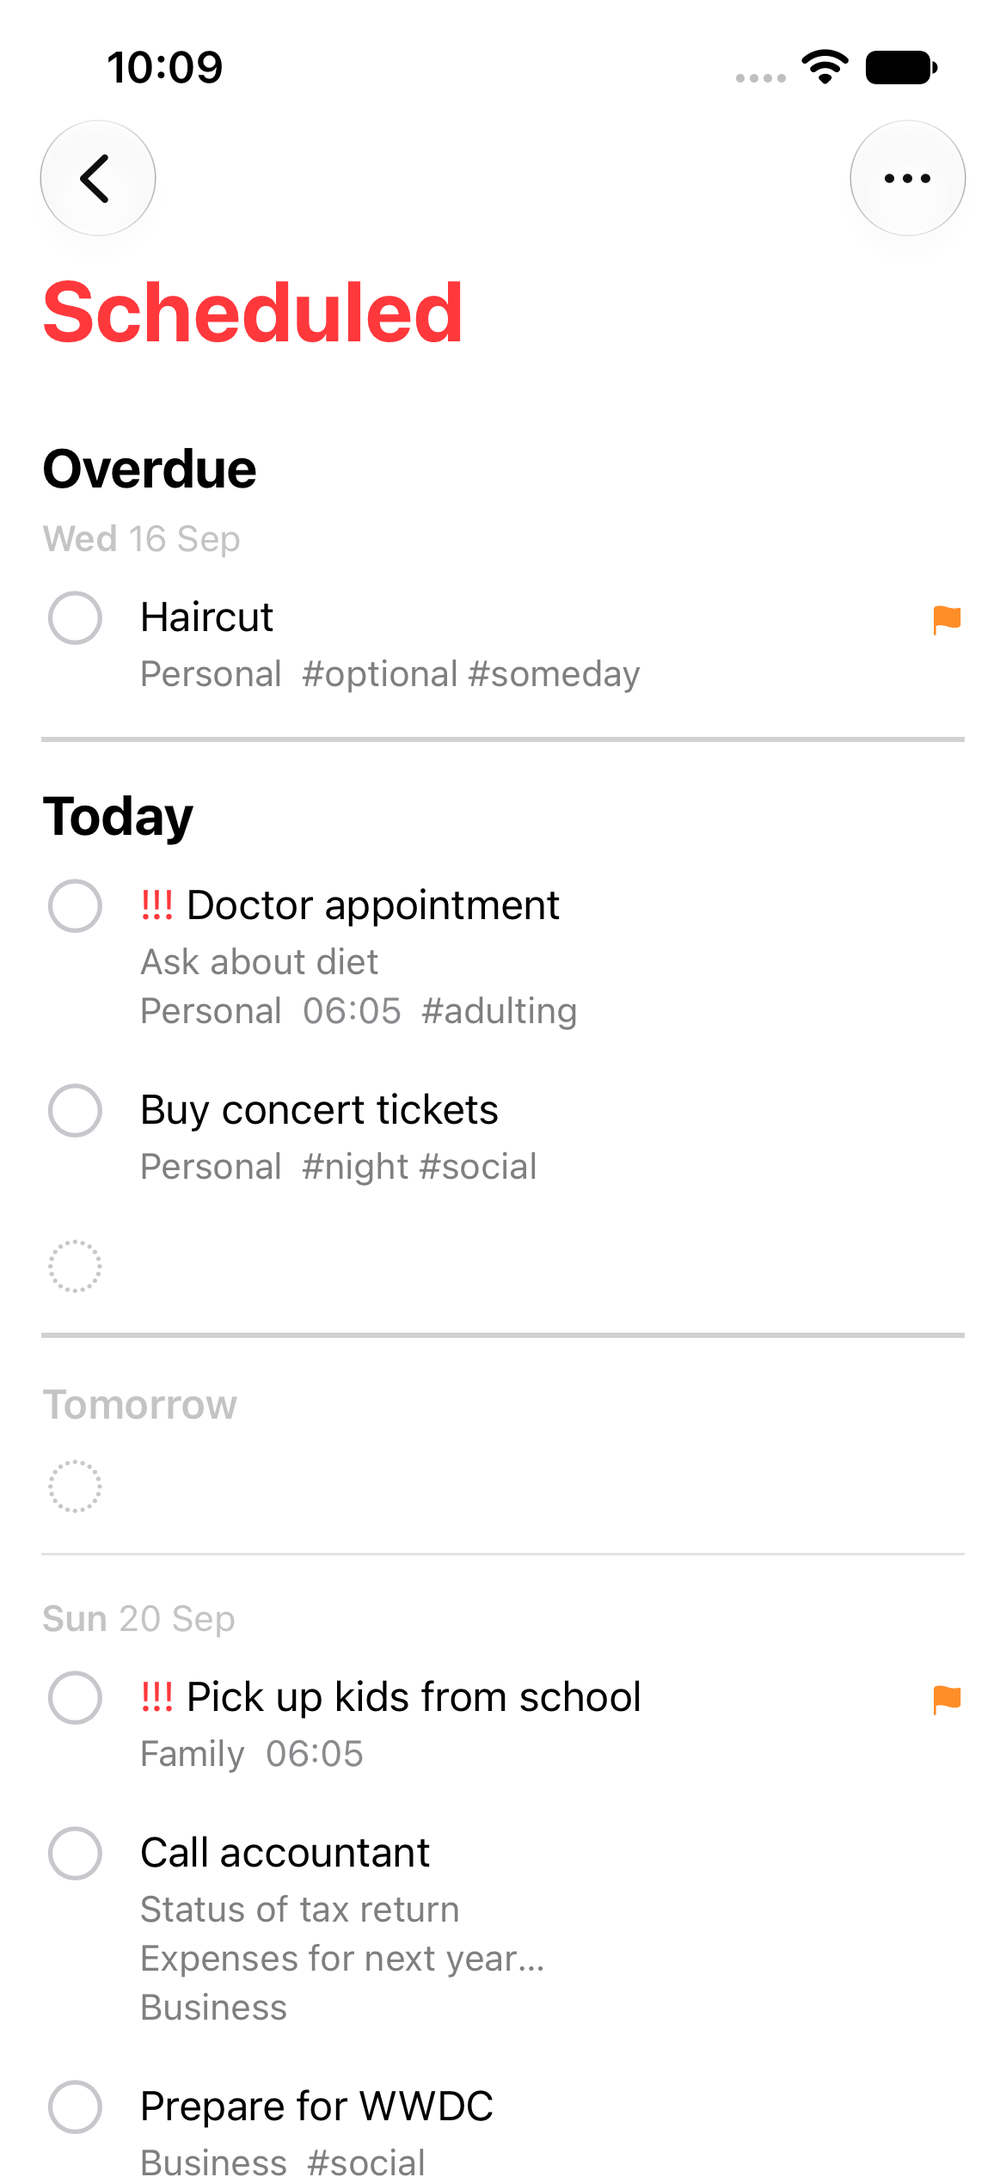
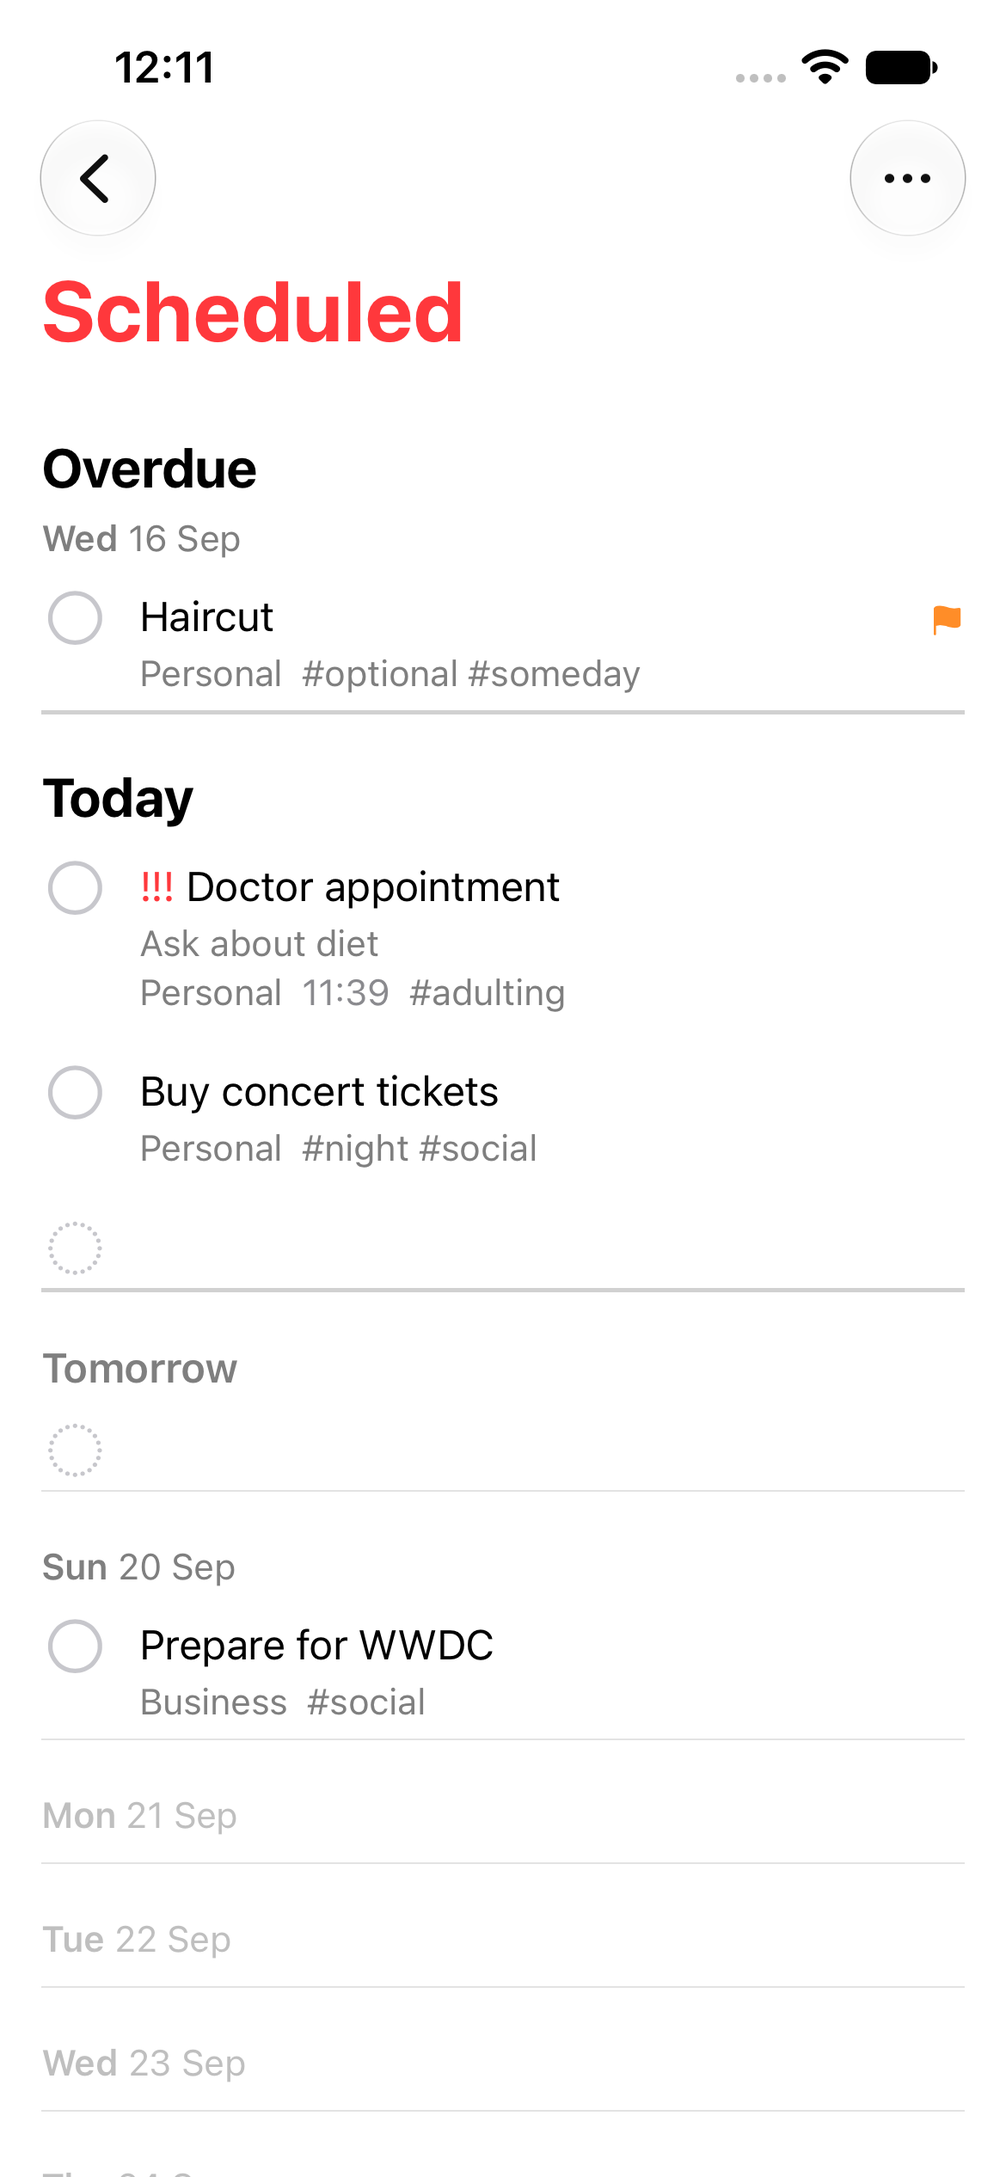
A relaunch never reopens a card; Sort By draws the stock checkmark column; rule, calendar, and tile spacing closed up

diff --git a/Tests/Reminders Feature Tests/Reminders.Feature Tests.swift b/Tests/Reminders Feature Tests/Reminders.Feature Tests.swift
@@ -59,11 +59,6 @@ struct `Reminder feature` {
         return store
     }
 
-    // The restoration state the app keeps in app storage; read here as the next launch would.
-    var restoredEditing: Reminder.ID? {
-        @Shared(.appStorage(Listing.editingKey)) var editing: String?
-        return editing.flatMap(UUID.init(uuidString:)).map { Reminder.ID($0) }
-    }
 
     var restoredFilter: Reminders.Filter? {
         @Shared(.appStorage(Reminders.Feature.filterKey)) var filter: Reminders.Filter.Key?
@@ -197,29 +192,32 @@ struct `Reminder feature` {
         await store.send(.listing(.doneButtonTapped))?.value
         #expect(await store.state.listing?.editing == nil)
         #expect(try await stored(second) == nil)
-        #expect(restoredEditing == nil)
         await store.dismount()
         }
     }
 
-    @Test func `a relaunch reopens the row that was being edited`() async throws {
+    @Test func `a relaunch never reopens a card: a blank draft left by a kill is dropped, a written one is a plain row`() async throws {
         try await TestExhaustivity.$current.withValue(.off) {
         let store = try await makeStore()
         await store.send(.overview(.listTapped(personal)))?.value
         await store.send(.listing(.newReminderButtonTapped))?.value
-        let row = try await editing(store).id
-        #expect(restoredEditing == row)
-        // A relaunch is a new store over the same app storage; the first process is gone without a dismount.
-        let revived = try await makeStore(restoring: .list(personal), editing: Editor.State(try await self.row(row), session: UUID(2)))
-        let editing = try await editing(revived)
-        #expect(editing.id == row && editing.draft.isBlank && editing.isSaved && editing.session == UUID(2))
-        await store.dismount()
-        await revived.modify { $0.listing = nil }?.value
-        #expect(restoredEditing == nil)
-        await revived.send(.overview(.filterTapped(.today)))?.value
-        #expect(await revived.state.listing?.filter == .today)
+        let blank = try await editing(store).id
+        // A relaunch is a new store over the same database; the first process is gone without a dismount.
+        let revived = try await makeStore(restoring: .list(personal))
         #expect(await revived.state.listing?.editing == nil)
+        try await until(try await page(revived)) { !$0.rows.contains { $0.id == blank } }
+        #expect(try await stored(blank) == nil)
+        await revived.send(.listing(.newReminderButtonTapped))?.value
+        await revived.modify { $0.listing?.editing?.draft.title = "Kept" }?.value
+        let kept = try await editing(revived).id
+        await revived.send(.listing(.doneButtonTapped))?.value
+        try await until(try await page(revived)) { $0.rows.contains { $0.id == kept && $0.title == "Kept" } }
+        await store.dismount()
         await revived.dismount()
+        let relaunched = try await makeStore(restoring: .list(personal))
+        #expect(await relaunched.state.listing?.editing == nil)
+        #expect(try await stored(kept)?.title == "Kept")
+        await relaunched.dismount()
         }
     }
 
@@ -489,7 +487,7 @@ struct `Reminder feature` {
         // Popping the listing dismounts it; the draft is written on the way out.
         await store.modify { $0.listing = nil }?.value
         #expect(try await stored(row)?.notes == "Rye")
-        #expect(restoredEditing == nil && restoredFilter == nil)
+        #expect(restoredFilter == nil)
         await store.dismount()
         }
     }
@@ -517,7 +515,6 @@ struct `Reminder feature` {
         let doctorRow = Editor.State(try await row(doctor.id), session: UUID(2))
         #expect(try await editing(store) == doctorRow)
         await store.send(.listing(.reminderTapped(doctor.id)))?.value
-        #expect(restoredEditing == doctor.id)
         await store.dismount()
         }
     }
@@ -778,22 +775,15 @@ struct `Reminder feature` {
         }
     }
 
-    @Test func `a launch restores the open filter and the row being edited from app storage, and forgets a row that is gone`() async throws {
+    @Test func `a launch restores the open filter from app storage and forgets a list that is gone`() async throws {
         try await TestExhaustivity.$current.withValue(.off) {
         @Shared(.appStorage(Reminders.Feature.filterKey)) var filter: Reminders.Filter.Key?
-        @Shared(.appStorage(Listing.editingKey)) var editing: String?
         $filter.withLock { $0 = Reminders.Filter.Key(.list(personal)) }
-        $editing.withLock { $0 = groceries.id.rawValue.uuidString }
-        let groceriesRow = try await row(groceries.id)
-        let store = try await makeStore(restoring: .list(personal), editing: Editor.State(groceriesRow, session: UUID(0)))
-        #expect(try await self.editing(store) == Editor.State(groceriesRow, session: UUID(0)))
+        let store = try await makeStore(restoring: .list(personal))
+        #expect(await store.state.listing?.editing == nil)
+        #expect(await store.state.failure == nil)
+        #expect(restoredFilter == .list(personal))
         await store.dismount()
-        try await database.write { [id = groceries.id] db in try Reminder.Record.find(id).delete().execute(db) }
-        let revived = try await makeStore(restoring: .list(personal))
-        #expect(await revived.state.listing?.editing == nil)
-        #expect(await revived.state.failure == nil)
-        #expect(restoredEditing == nil && restoredFilter == .list(personal))
-        await revived.dismount()
         // A list that is gone takes the launch back to the front screen and forgets the filter.
         $filter.withLock { $0 = Reminders.Filter.Key(.list(Models.List<Reminder>.ID(UUID()))) }
         let fronted = try await makeStore()

diff --git a/Sources/Reminders Feature/Reminders.Listing.Feature.swift b/Sources/Reminders Feature/Reminders.Listing.Feature.swift
@@ -38,8 +38,9 @@ extension Reminders.Listing {
                 return page
             }
             @DebugSnapshotIgnored @Fetch public var preference = Reminders.Preference(ordering: .dueDate, showCompleted: false)
-            // The row being edited survives a relaunch.
-            @DebugSnapshotIgnored @Shared(.appStorage(Feature.editingKey)) public var editingID: String? = nil
+            // The Sort By pickers bind here; the stored preference follows through the feature, and leads it back.
+            public var ordering: Reminders.Ordering = .dueDate
+            public var direction: SortOrder = .forward
 
             public init(filter: Reminders.Filter, today: Date) {
                 self.filter = filter
@@ -133,11 +134,9 @@ extension Reminders.Listing {
                 case .newReminderButtonTapped:
                     if let list = state.list { startNewReminder(in: list, &state) }
                 case let .orderingSelected(ordering):
-                    let filter = state.filter
-                    perform { try await reminders.update.order(filter, by: ordering) }
+                    state.ordering = ordering
                 case let .directionSelected(direction):
-                    let filter = state.filter
-                    perform { try await reminders.update.turn(filter, direction) }
+                    state.direction = direction
                 case let .reminderCompleteButtonTapped(id):
                     completion.tapped(id, &state)
                 case let .reminderDeleted(id):
@@ -203,8 +202,19 @@ extension Reminders.Listing {
             .ifLet(\.editing) {
                 Reminder.Editor.Feature()
             }
-            .onChange(of: store.editing?.id) { _, id, state in
-                state.$editingID.withLock { $0 = id?.rawValue.uuidString }
+            .onChange(of: store.preference, initial: true) { _, preference, state in
+                state.ordering = preference.ordering
+                state.direction = preference.direction
+            }
+            .onChange(of: store.ordering) { _, ordering, state in
+                guard ordering != state.preference.ordering else { return }
+                let filter = state.filter
+                perform { try await reminders.update.order(filter, by: ordering) }
+            }
+            .onChange(of: store.direction) { _, direction, state in
+                guard direction != state.preference.direction else { return }
+                let filter = state.filter
+                perform { try await reminders.update.turn(filter, direction) }
             }
             .onChange(of: Reminders.Read.Preference.Request(for: store.filter), initial: true) { _, request, state in
                 let preference = state.$preference
@@ -231,7 +241,6 @@ extension Reminders.Listing {
 }
 
 extension Reminders.Listing.Feature {
-    public static let editingKey = "remindersEditing"
     public static var grace: Duration { Reminders.Completion<State, Action>.grace }
     public static let paging: (step: Int, margin: Int) = (300, 60)
 

diff --git a/Sources/Reminders Feature/Reminders.Feature.swift b/Sources/Reminders Feature/Reminders.Feature.swift
@@ -23,16 +23,14 @@ extension Reminders {
             public var failure: String?
 
             @DebugSnapshotIgnored @Shared(.appStorage(Feature.filterKey)) public var filterKey: Reminders.Filter.Key? = nil
-            @DebugSnapshotIgnored @Shared(.appStorage(Reminders.Listing.Feature.editingKey)) public var editingID: String? = nil
 
-            // The initial state is the restored one: the open filter and the row being edited come back from app storage.
+            // The initial state is the restored one: the open filter comes back from app storage. A row that was being
+            // edited does not, as in the stock app: backgrounding wrote it, a kill drops the blank draft.
             public init() {
                 @Dependency(\.calendar) var calendar
                 @Dependency(\.date.now) var now
                 @Dependency(\.reminders) var reminders
-                @Dependency(\.uuid) var uuid
                 @Shared(.appStorage(Feature.filterKey)) var filterKey: Reminders.Filter.Key?
-                @Shared(.appStorage(Reminders.Listing.Feature.editingKey)) var editingID: String?
                 let today = calendar.startOfDay(for: now)
                 var listing: Reminders.Listing.Feature.State?
                 var failure: String?
@@ -53,15 +51,6 @@ extension Reminders {
                 if !known { $filterKey.withLock { $0 = nil } }
                 if known, let filter = filterKey.flatMap(Reminders.Filter.init(key:)) {
                     listing = Reminders.Listing.Feature.State(filter: filter, today: today)
-                    if let stored = editingID.flatMap(UUID.init(uuidString:)) {
-                        do {
-                            listing?.editing = Reminder.Editor.Feature.State(try reminders.read(Reminder.ID(stored)), session: uuid())
-                        } catch Reminders.Read.Error.notFound {
-                        } catch {
-                            failure = error.localizedDescription
-                        }
-                    }
-                    $editingID.withLock { $0 = listing?.editing?.id.rawValue.uuidString }
                 }
                 self.today = today
                 self.overview = Reminders.Read.Feature.State(today: today)
@@ -180,7 +169,10 @@ extension Reminders {
             }
             .onChange(of: store.listing?.filter) { _, filter, state in
                 state.$filterKey.withLock { $0 = filter.map(Reminders.Filter.Key.init) }
-                if filter == nil { state.$editingID.withLock { $0 = nil } }
+            }
+            // A launch finds no row in use, so a blank draft left by a kill is dropped.
+            .onMount { _ in
+                store.addTask { try await store.attempt { try await reminders.delete.blank() } }
             }
         }
     }

diff --git a/reminders-apple/Sources/Reminders View/Reminders.Listing.SwiftUI.swift b/reminders-apple/Sources/Reminders View/Reminders.Listing.SwiftUI.swift
@@ -146,7 +146,7 @@ extension Reminders.Listing.SwiftUI: SwiftUI::View {
                         .fill(.quaternary)
                         .frame(height: thin ? 1 : 2)
                         .opacity(thin ? 0.6 : 1)
-                        .listRowInsets(EdgeInsets(top: 6, leading: 16, bottom: 0, trailing: 16))
+                        .listRowInsets(EdgeInsets(top: -5, leading: 16, bottom: 0, trailing: 16))
                         .listRowSeparator(.hidden)
                     }
             }
@@ -221,26 +221,18 @@ extension Reminders.Listing.SwiftUI: SwiftUI::View {
                     Button("Select Reminders", systemImage: "checkmark.circle") { withAnimation { editMode = .active } }
                     if !deleted {
                     Menu {
-                        ForEach(Reminders.Ordering.allCases, id: \.self) { ordering in
-                            Button { store.send(.orderingSelected(ordering)) } label: {
-                                if ordering == preference.ordering {
-                                    Label(ordering.title, systemImage: "checkmark")
-                                } else {
-                                    Text(ordering.title)
-                                }
-                            }
+                        // Pickers in a menu draw the stock checkmark column.
+                        Picker("Sort By", selection: $store.ordering) {
+                            ForEach(Reminders.Ordering.allCases, id: \.self) { Text($0.title).tag($0) }
                         }
+                        .pickerStyle(.inline)
+                        .labelsHidden()
                         if preference.ordering != .manual {
-                            Divider()
-                            ForEach([SortOrder.forward, .reverse], id: \.self) { direction in
-                                Button { store.send(.directionSelected(direction)) } label: {
-                                    if direction == preference.direction {
-                                        Label(preference.ordering.title(direction) ?? "", systemImage: "checkmark")
-                                    } else {
-                                        Text(preference.ordering.title(direction) ?? "")
-                                    }
-                                }
+                            Picker("Direction", selection: $store.direction) {
+                                ForEach([SortOrder.forward, .reverse], id: \.self) { Text(preference.ordering.title($0) ?? "").tag($0) }
                             }
+                            .pickerStyle(.inline)
+                            .labelsHidden()
                         }
                     } label: {
                         Text("Sort By")

diff --git a/reminders-apple/Sources/Reminders App/Reminders.Sample.Feature.swift b/reminders-apple/Sources/Reminders App/Reminders.Sample.Feature.swift
@@ -36,8 +36,6 @@ extension Reminders.Sample {
         @Dependency(\.defaultDatabase) var database
         @Dependency(\.uuid) var uuid
         @Dependency(\.withRandomNumberGenerator) var withRandomNumberGenerator
-        // A replaced database has no row to restore.
-        @Shared(.appStorage(Reminders.Listing.Feature.editingKey)) var editingID: String?
 
         let replaced: () -> Void
 
@@ -56,7 +54,6 @@ extension Reminders.Sample {
                             try write { db in
                                 try sample.replace(in: db)
                             }
-                            $editingID.withLock { $0 = nil }
                             replaced()
                         }
                     }
@@ -70,7 +67,6 @@ extension Reminders.Sample {
                             try await database.write { db in
                                 try sample.replace(in: db)
                             }
-                            $editingID.withLock { $0 = nil }
                             replaced()
                         }
                     }
@@ -83,7 +79,6 @@ extension Reminders.Sample {
                                 try Reminders.Sample(lists: []).replace(in: db)
                                 try Models.List<Reminder>.Record.installDefault(replacement, in: db)
                             }
-                            $editingID.withLock { $0 = nil }
                             replaced()
                         }
                     }

diff --git a/reminders-apple/Sources/Reminders View/Reminder.Form.SwiftUI.swift b/reminders-apple/Sources/Reminders View/Reminder.Form.SwiftUI.swift
@@ -57,7 +57,7 @@ extension Reminder.Form.SwiftUI: SwiftUI::View {
                 if expanded == .date, let due = draft.due {
                     DatePicker("Date", selection: $store.draft.date(or: due.date), displayedComponents: .date)
                         .datePickerStyle(.graphical)
-                        .listRowInsets(EdgeInsets(top: 0, leading: 22, bottom: 0, trailing: 22))
+                        .listRowInsets(EdgeInsets(top: -12, leading: 22, bottom: -6, trailing: 22))
                 }
                 Toggle(isOn: $store.draft.timeOn(now, calendar: calendar).animation()) {
                     row("Time", systemImage: "clock", subtitle: draft.due?.timeDescription(calendar: calendar)) {

diff --git a/Sources/Reminders SQLite/Reminders+SQLite.swift b/Sources/Reminders SQLite/Reminders+SQLite.swift
@@ -158,6 +158,8 @@ extension Reminders {
                         try Models.List<Reminder>.Record.where { $0.deleted.lt(Date?.some(request.cutoff)) }.delete().execute(db)
                     }
                 },
+                // A blank row is a draft that was never written; a launch finds none in use.
+                blank: { _ in try await database.write { db in try Reminder.Record.where { $0.title.eq("") }.delete().execute(db) } },
                 completed: .init(
                     in: { request in
                         let today = calendar.day(containing: request.today)

diff --git a/Sources/Reminders Dependency/DependencyValues+Reminders.swift b/Sources/Reminders Dependency/DependencyValues+Reminders.swift
@@ -32,6 +32,7 @@ extension Reminders: TestDependencyKey {
                 unimplemented("\\.reminders.delete"),
                 permanently: unimplemented("\\.reminders.delete.permanently"),
                 expired: unimplemented("\\.reminders.delete.expired"),
+                blank: unimplemented("\\.reminders.delete.blank"),
                 completed: .init(
                     in: unimplemented("\\.reminders.delete.completed(in:)"),
                     matching: unimplemented("\\.reminders.delete.completed(matching:)")

diff --git a/Tests/Reminders Feature Tests/Reminders Chaos Tests.swift b/Tests/Reminders Feature Tests/Reminders Chaos Tests.swift
@@ -231,7 +231,5 @@ struct `Reminder chaos` {
                 #expect(try Reminder.Record.find(editing.id).fetchCount(db) == 1, "editing a row that is gone\n\(replay)")
             }
         }
-        @Shared(.appStorage(Reminders.Listing.Feature.editingKey)) var restored: String?
-        #expect(restored == editing?.id.rawValue.uuidString, "app storage \(restored ?? "nil") vs \(editing?.id.rawValue.uuidString ?? "nil")\n\(replay)")
     }
 }

diff --git a/Sources/Reminders/Reminders.Delete.swift b/Sources/Reminders/Reminders.Delete.swift
@@ -9,6 +9,7 @@ extension Reminders {
             func callAsFunction(_ id: Reminder.ID) async throws
             func permanently(_ id: Reminder.ID) async throws
             func expired(before cutoff: Date) async throws
+            func blank() async throws
             func completed(in filter: Reminders.Filter, today: Date) async throws
             func completed(matching query: Reminders.Query, dueBefore: Date?) async throws
         }

diff --git a/reminders-apple/Sources/Reminders View/Reminders.Overview.SwiftUI.swift b/reminders-apple/Sources/Reminders View/Reminders.Overview.SwiftUI.swift
@@ -47,7 +47,8 @@ extension Reminders.Read.SwiftUI: SwiftUI::View {
                 .listRowInsets(EdgeInsets())
             }
         }
-        .listSectionMargins(.top, 0)
+        // The tiles sit 22 pt under the bar, as the stock tiles do.
+        .listSectionMargins(.top, 6)
         Section {
             ForEach(contents.lists) { entry in
                 Button { store.send(.listTapped(entry.id)) } label: {

diff --git a/Tests/Reminders Tests/Reminders Tests.swift b/Tests/Reminders Tests/Reminders Tests.swift
@@ -43,6 +43,7 @@ import Testing
                 { _ in },
                 permanently: { _ in },
                 expired: { _ in },
+                blank: { _ in },
                 completed: .init(in: { _ in }, matching: { _ in })
             ),
             lists: .init(
